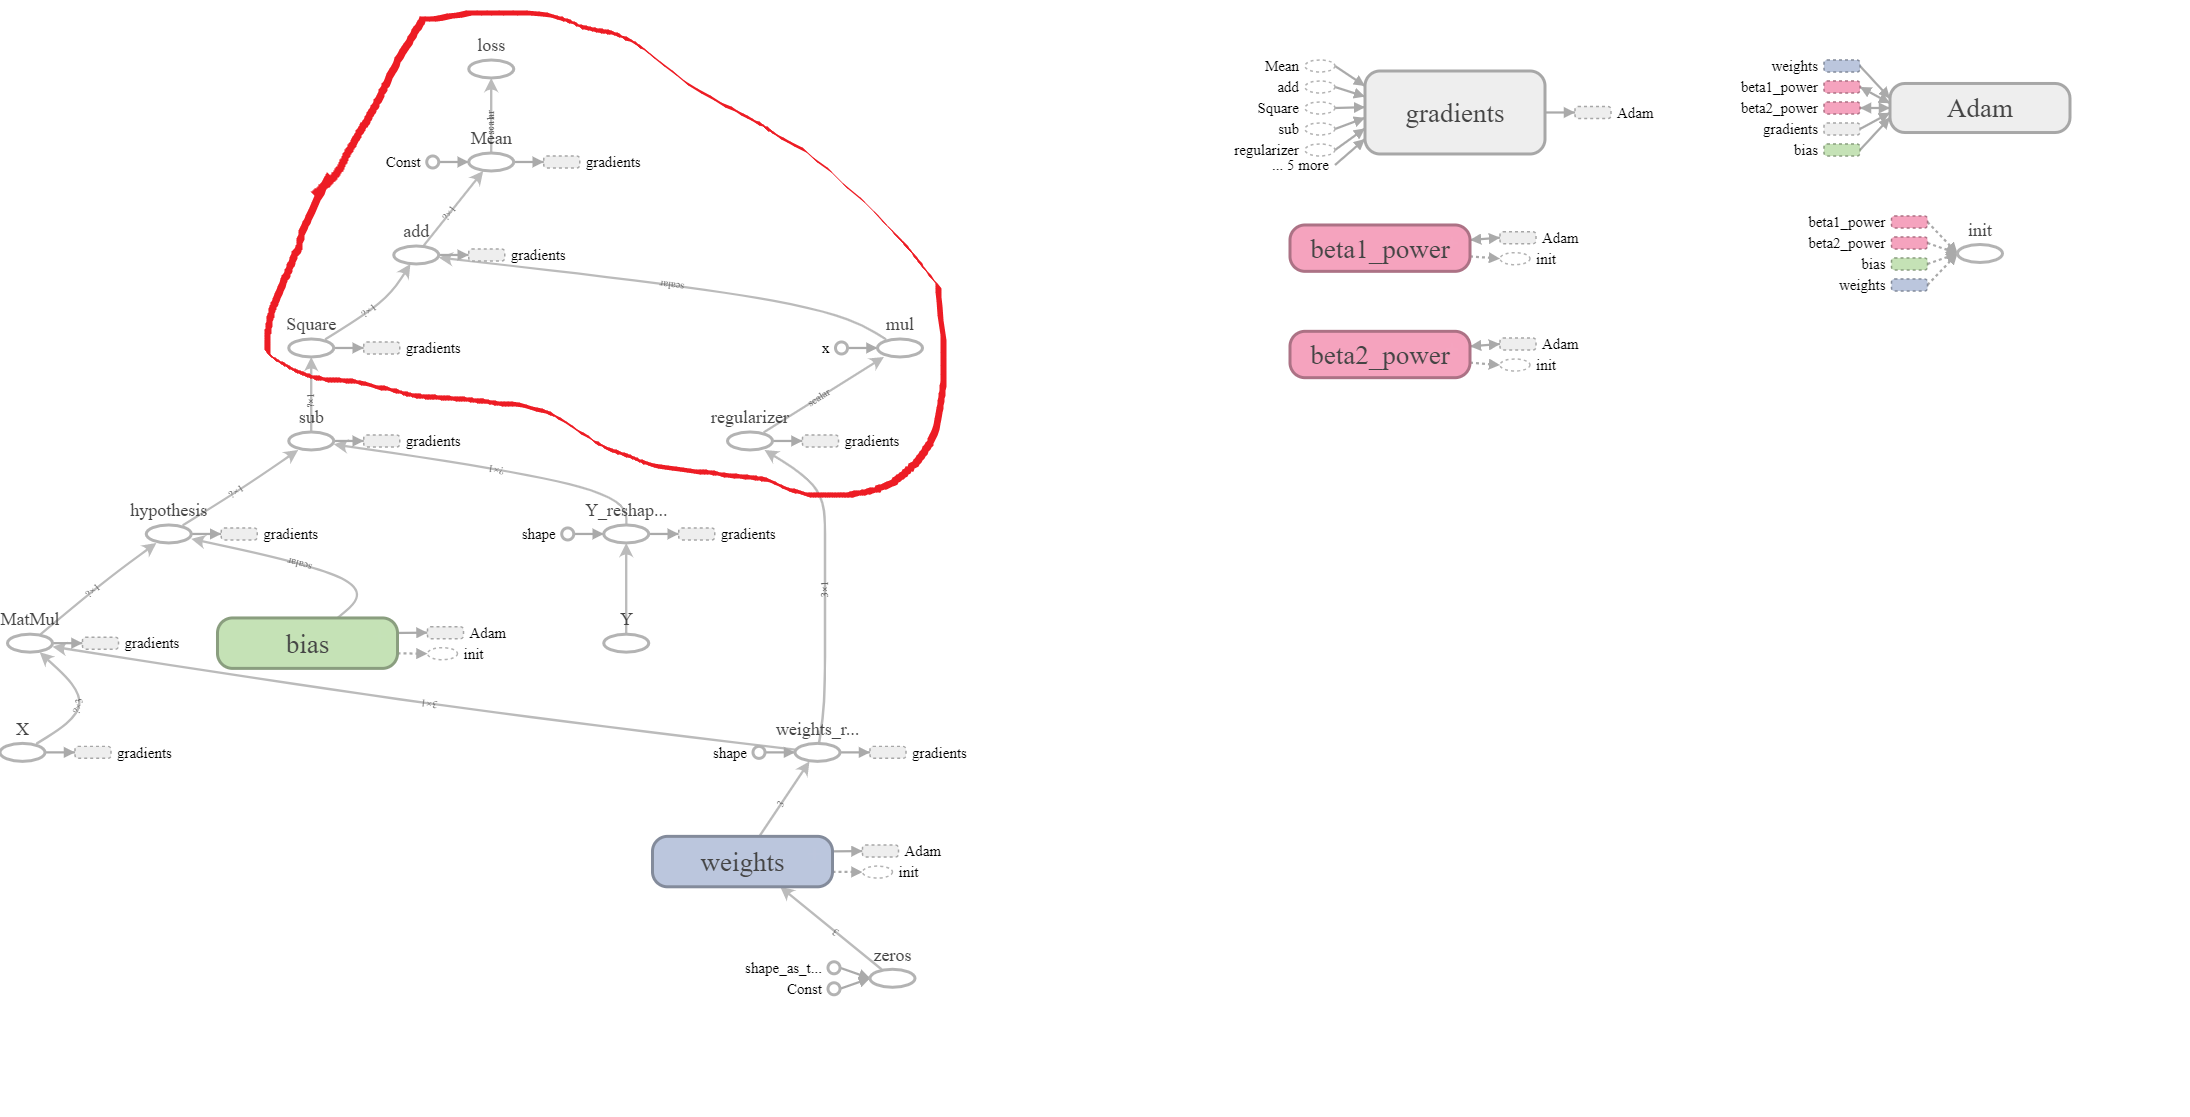
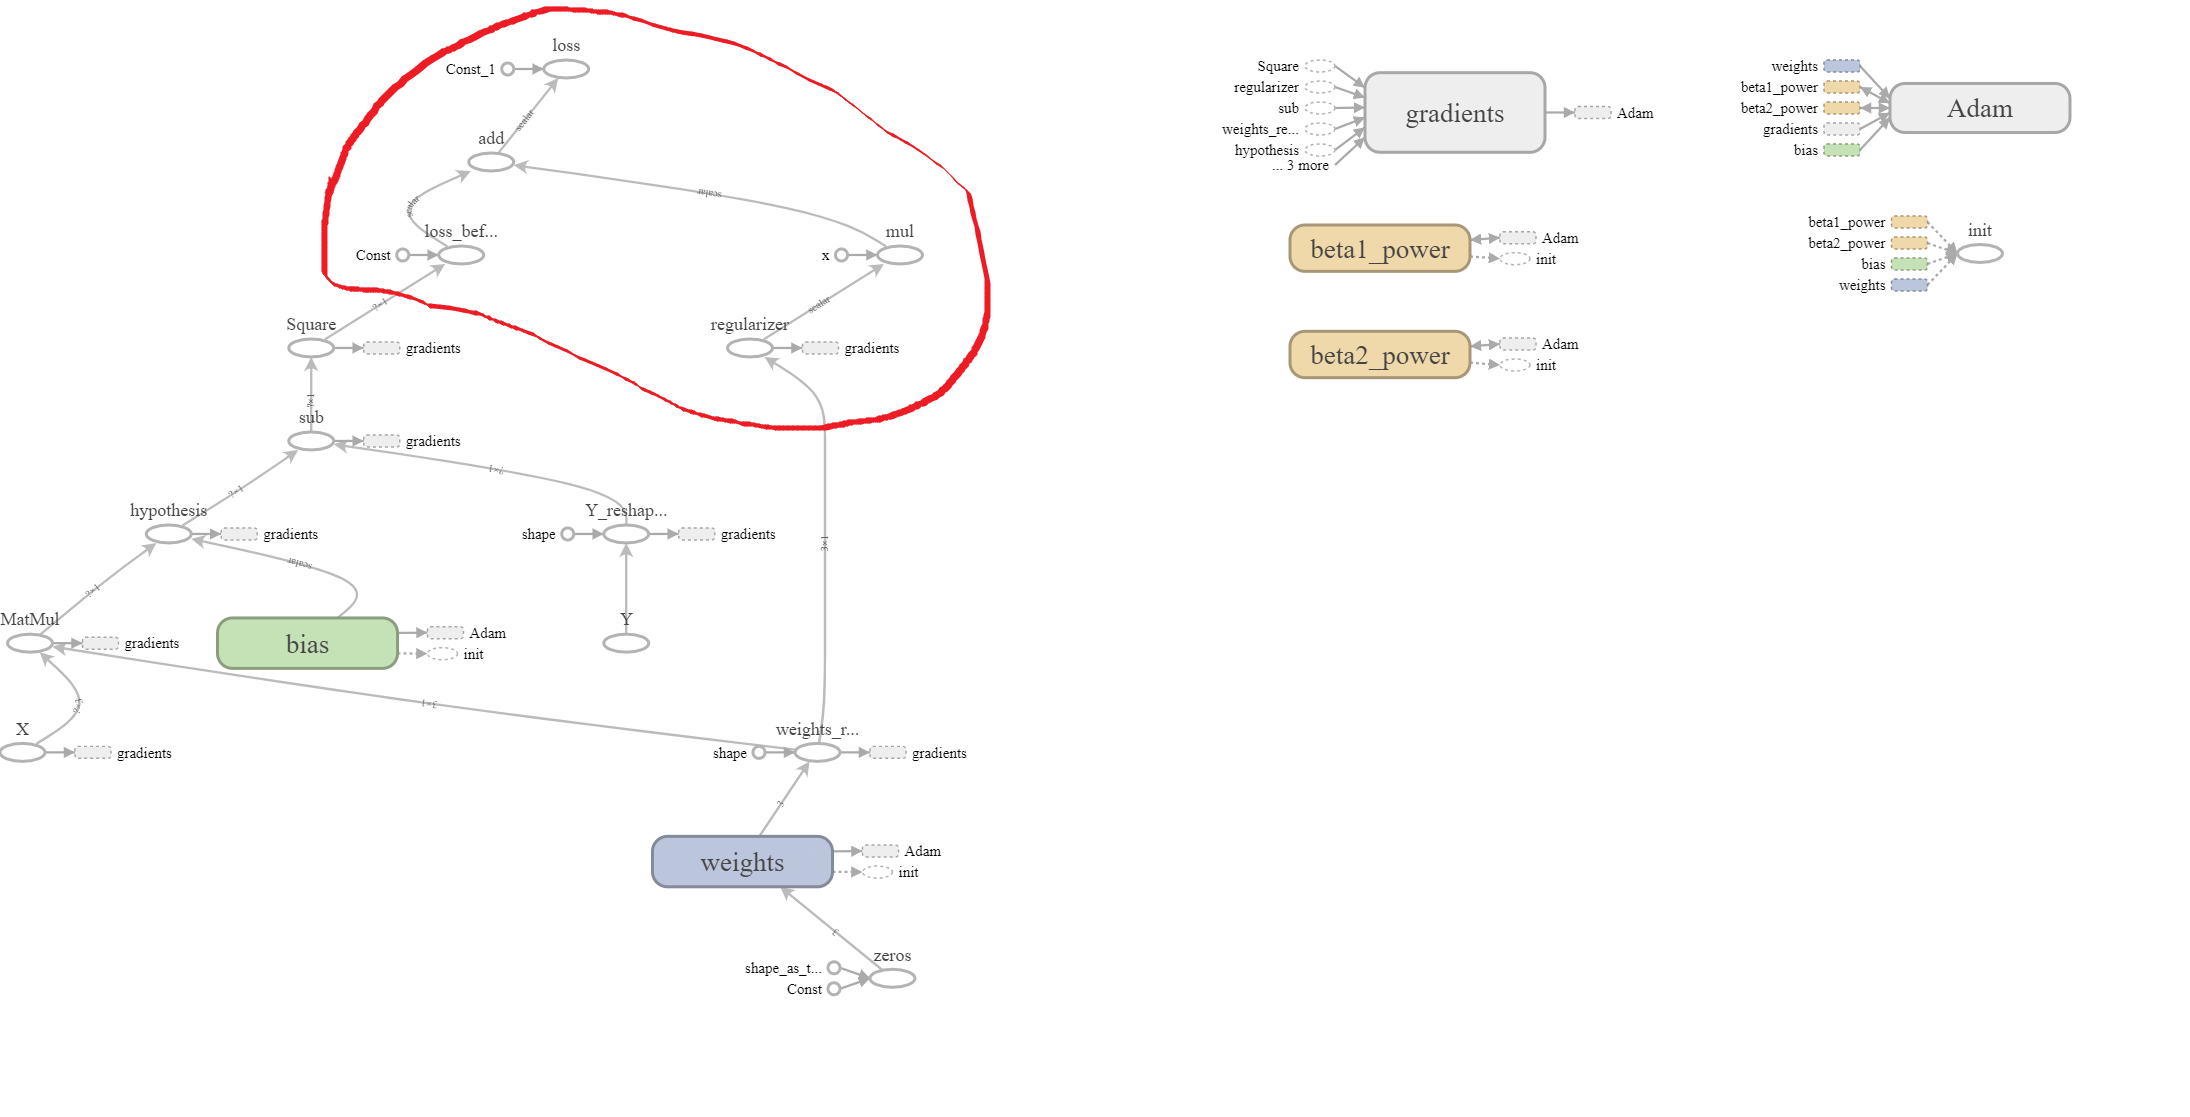
final commit

diff --git a/2b.py b/2b.py
@@ -57,9 +57,10 @@ def polynomial_regression(data_x, data_y, nb_features, nb_samples, lmd):
     hyp = tf.add(tf.matmul(X, w_col), bias, name='hypothesis')
 
     Y_col = tf.reshape(Y, (-1, 1), name='Y_reshaped')
-    regularizer = tf.nn.l2_loss(w_col, name='regularizer')
+    loss = tf.reduce_mean(tf.square(hyp - Y_col), name='loss_before')
     # loss function using L2 Regularization
-    loss = tf.abs(tf.reduce_mean(tf.square(hyp - Y_col) + lmd * regularizer), name='loss')
+    regularizer = tf.nn.l2_loss(w_col, name='regularizer')
+    loss = tf.reduce_mean(loss + lmd * regularizer, name='loss')
     opt_op = tf.train.AdamOptimizer().minimize(loss)
 
     with tf.Session() as sess:
